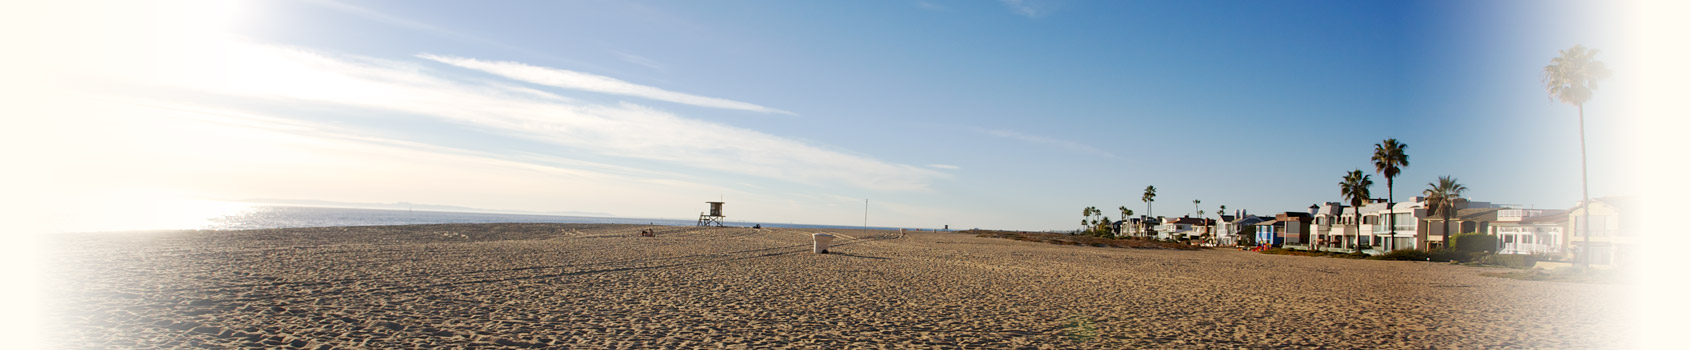
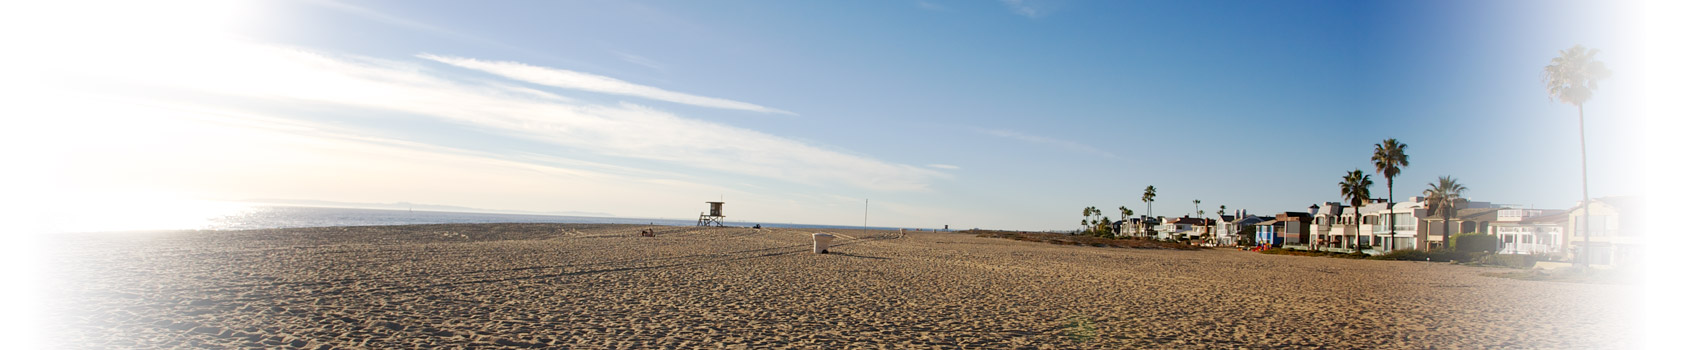
re-adjusted the background image so that it's centered on the masthead
adjusted the colors in the gradient ont he masthead to be more white

diff --git a/app/assets/stylesheets/application.css b/app/assets/stylesheets/application.css
@@ -39,7 +39,7 @@ article p, section p {margin-bottom:10px;}
 
 .Masthead+article{margin-top:20px;}
 
-.Masthead {display: block;padding-top: 20px;width: 100%;max-width:100%;background: transparent url(/assets/beach_wide.jpg) no-repeat -40px -150px;}
+.Masthead {display: block;padding-top: 20px;width: 100%;max-width:100%;background: transparent url(/assets/beach_wide.jpg) no-repeat center -150px;}
 .MastheadInnerWrapper {display: block;
     height: 130px;
     margin: 0 auto;
